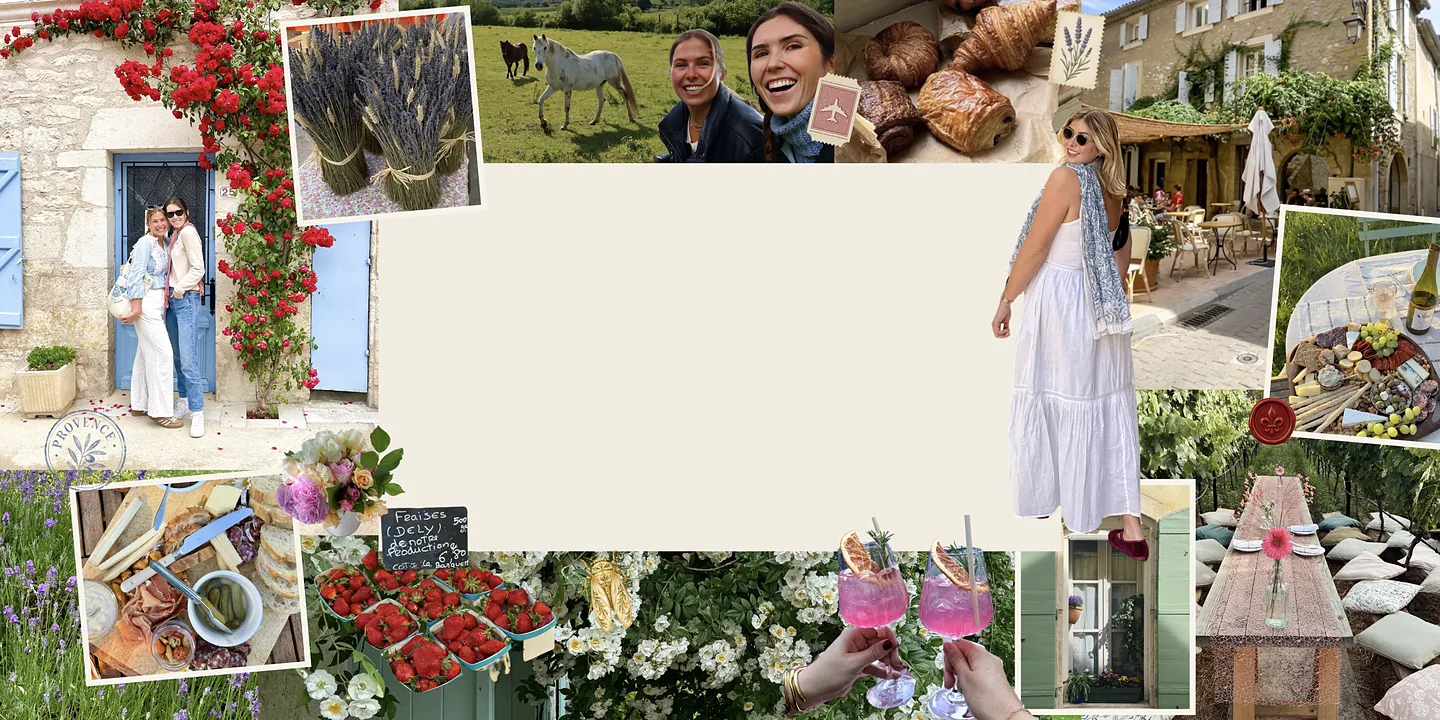
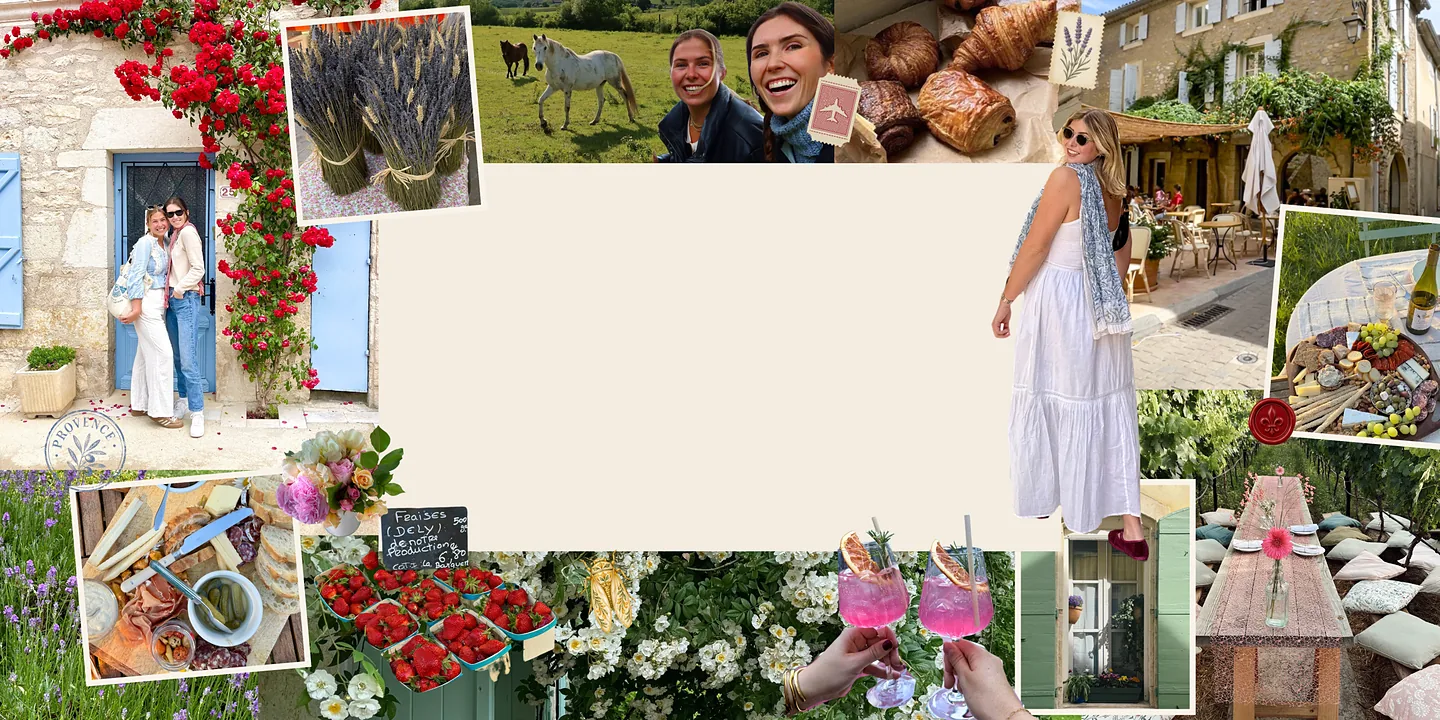
Retreats: true-colour collage (convert Display profile to sRGB), smaller table photo pair
Claude-Session: https://claude.ai/code/session_016Q8dL6JmJZhik5BirDmPp2

diff --git a/src/pages/RetreatsPage.css b/src/pages/RetreatsPage.css
@@ -110,8 +110,8 @@
 .rt-prose p, .rt-prose-one { margin: 0 0 1.2rem; font-weight: 300; font-size: 1.08rem; line-height: 1.95; color: #555; }
 .rt-prose-one { max-width: 680px; margin: 0 auto 3.5rem; text-align: center; }
 
-.rt-pair { display: grid; grid-template-columns: 1fr 1fr; gap: 2rem; margin-top: 4rem; }
-.rt-pair img { display: block; width: 100%; height: auto; aspect-ratio: 3 / 4; object-fit: cover; }
+.rt-pair { display: grid; grid-template-columns: 1fr 1fr; gap: 1.5rem; max-width: 760px; margin: 4rem auto 0; }
+.rt-pair img { display: block; width: 100%; height: auto; aspect-ratio: 4 / 5; object-fit: cover; }
 
 /* full-width photo, darkened, with white caps text on top */
 .rt-banner2 { position: relative; margin: 6rem 0 0; }
@@ -220,7 +220,7 @@
 @media (max-width: 600px) {
   .rt-meta { font-size: 0.66rem; letter-spacing: 0.14em; }
   .rt-sec, .rt-who { padding-top: 4rem; }
-  .rt-pair { gap: 0.8rem; margin-top: 2.5rem; }
+  .rt-pair { gap: 0.8rem; margin-top: 2.5rem; max-width: 520px; }
   .rt-banner2 { margin-top: 4rem; }
   .rt-week { gap: 1rem; }
   .rt-fig figcaption { font-size: 0.85rem; padding: 0.55rem 0.9rem; letter-spacing: 0.1em; }
